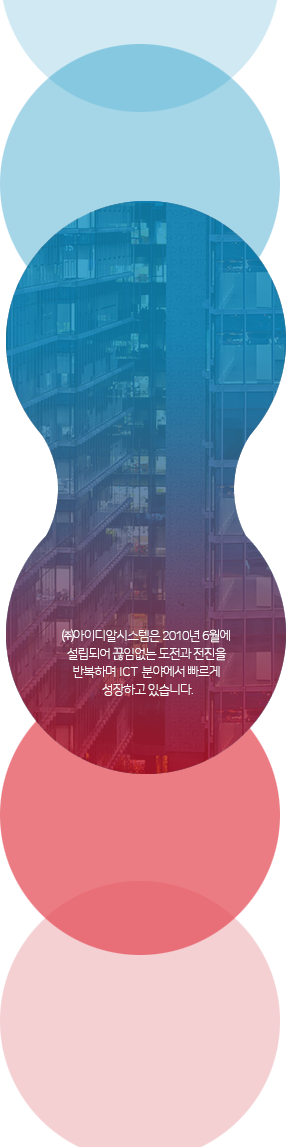
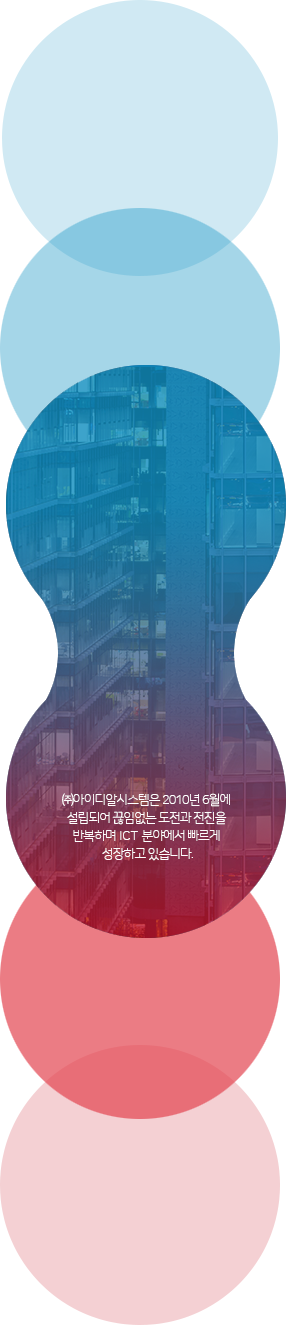
br 태그 수정, 연혁 bg 수정, 그 외 간격 수정

diff --git a/css/work-somia.css b/css/work-somia.css
@@ -25,11 +25,15 @@
 
 @media (max-width: 736px) { .visual_table .td_bg_2 { font-size: 12px !important; } }
 
+@media (max-width: 736px) { .visual_table .td_bg_2 br { display: none !important; } }
+
 .visual_table .t_lg { font-weight: 300; font-size: 2.5em; line-height: 30px; letter-spacing: -1.88px; }
 
 @media (max-width: 736px) { .visual_table .t_lg { font-size: 1.6em; } }
 
 .visual_table .t_sm { font-weight: 300; font-size: 1.5em; line-height: 20px; letter-spacing: -1.13px; }
+
+@media (max-width: 736px) { .visual_table .t_sm br { display: none !important; } }
 
 .line_bx_wrap { width: 100%; }
 
@@ -108,7 +112,11 @@
 
 .blk_item_wrap .blk_tit_con .blk_tit { display: inline-block; width: 420px; font-weight: 300; font-size: 3.1em; line-height: 41px; letter-spacing: -2.33px; vertical-align: top; }
 
+@media (max-width: 1260px) { .blk_item_wrap .blk_tit_con .blk_tit { width: 400px; } }
+
 .blk_item_wrap .blk_tit_con .blk_con { display: inline-block; width: calc(100% - 430px); padding-left: 0; font-weight: 300; font-size: 1.9em; line-height: 27px; letter-spacing: -2.33px; vertical-align: top; }
+
+@media (max-width: 1260px) { .blk_item_wrap .blk_tit_con .blk_con .point_clr .only_pc { display: none; } }
 
 .blk_item_wrap .blk_tit_con .blk_con .dot_ul { padding-top: 25px; }
 
@@ -219,7 +227,7 @@
 
 .biz_box .swiper-pagination-bullet-active { color: #fff; background: #007aff; }
 
-.portfolio_box .sec_tit { margin-top: 80px; }
+.portfolio_box .sec_tit { margin-top: 90px; }
 
 .portfolio_box ul { width: 100%; display: flex; justify-content: center; flex-wrap: wrap; }
 
@@ -593,7 +601,8 @@
 @media (max-width: 1260px) { .intro_box .right_bx br { display: none; }
   .intro_box .right_bx tr:nth-child(3) img { height: 220px; object-fit: cover; } }
 
-@media (max-width: 736px) { .intro_box .left_bx .txt_wrap .tw_2 { padding-bottom: 30px; }
+@media (max-width: 736px) { .intro_box .left_bx { margin-top: 10px; }
+  .intro_box .left_bx .txt_wrap .tw_2 { padding-bottom: 30px; }
   .intro_box .left_bx, .intro_box .right_bx { width: 100%; height: unset; }
   .intro_box .left_bx br, .intro_box .right_bx br { display: block; } }
 
@@ -610,7 +619,7 @@
 @media (max-width: 736px) { .numbers_wrap .nmb_num { font-size: 5.4em; }
   .numbers_wrap .nmb_txt { margin-left: 0; vertical-align: super; } }
 
-.contact_history #contents { padding-top: 160px; padding-bottom: 140px !important; background: url(../images/contact/cntc_img_03.png); background-repeat: repeat-y; background-size: 286px; background-position: 50% 0; }
+.contact_history #contents { padding-top: 160px; padding-bottom: 140px !important; background: url(../images/contact/cntc_img_03.png); background-repeat: repeat-y; background-size: 286px; background-position: 50% 100%; }
 
 @media (max-width: 736px) { .contact_history #contents { padding-top: 0px; background: none; } }
 

diff --git a/dev/css_dev/display/_content.scss b/dev/css_dev/display/_content.scss
@@ -48,6 +48,11 @@
     @include mdq_m {
       font-size:12px !important;
     }
+    br {
+      @include mdq_m {
+        display: none !important;
+      }
+    }
   }
   .t_lg {
     @include fnt_set($l, 2.5em, 30px, -1.88px);
@@ -57,6 +62,11 @@
   }
   .t_sm {
     @include fnt_set($l, 1.5em, 20px, -1.13px);
+    br {
+      @include mdq_m {
+        display: none !important;
+      }
+    }
   }
 }
 
@@ -259,6 +269,9 @@
       width:420px;
       @include fnt_set($l, 3.1em, 41px, -2.33px);
       vertical-align:top;
+      @include narrow_custom {
+        width: 400px;
+      }
     }
     .blk_con {
       display:inline-block;
@@ -266,6 +279,13 @@
       padding-left:0;
       @include fnt_set($l, 1.9em, 27px, -2.33px);
       vertical-align:top;
+      .point_clr {
+        .only_pc {
+          @include narrow_custom {
+            display: none;
+          }
+        }
+      }
       .dot_ul {
         padding-top:25px;
         > li {

diff --git a/dev/css_dev/pages/_contact.scss b/dev/css_dev/pages/_contact.scss
@@ -63,6 +63,7 @@
   }
   @include mdq_m {
     .left_bx {
+      margin-top: 10px;
       .txt_wrap {
         .tw_2 {
           padding-bottom: 30px;
@@ -126,7 +127,7 @@
     background:url(#{$img_url}contact/cntc_img_03.png);
     background-repeat:repeat-y;
     background-size:286px;
-    background-position:50% 0;
+    background-position:50% 100%;
     @include mdq_m {
       padding-top:0px;
       background:none;

diff --git a/dev/css_dev/pages/_main.scss b/dev/css_dev/pages/_main.scss
@@ -243,7 +243,7 @@
 
 .portfolio_box {
   .sec_tit {
-    margin-top: 80px;
+    margin-top: 90px;
   }
   ul {
     width:100%;
